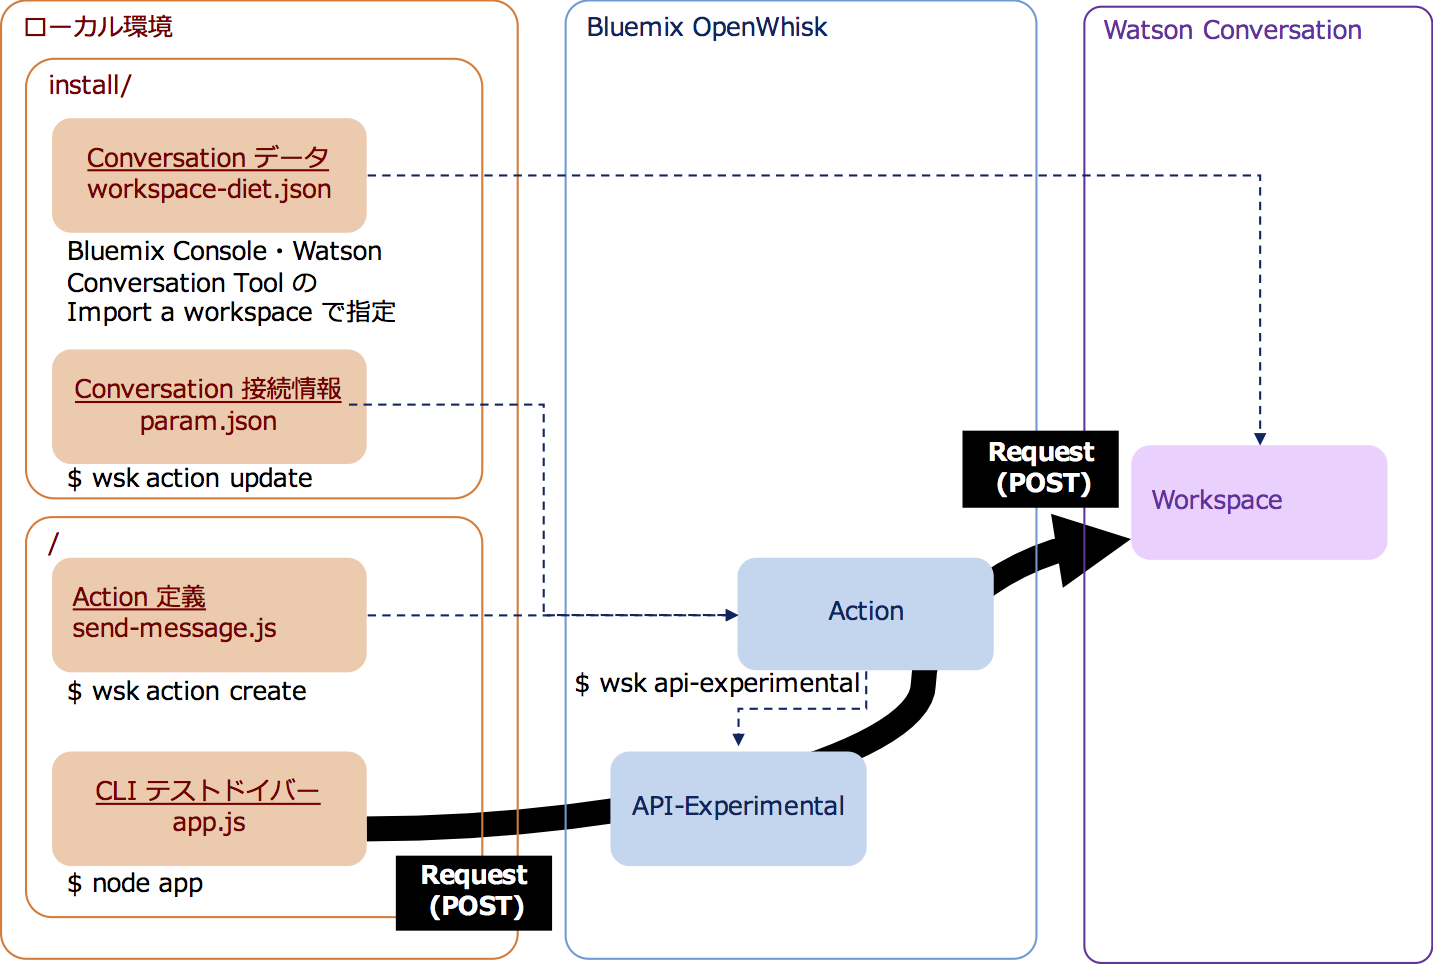
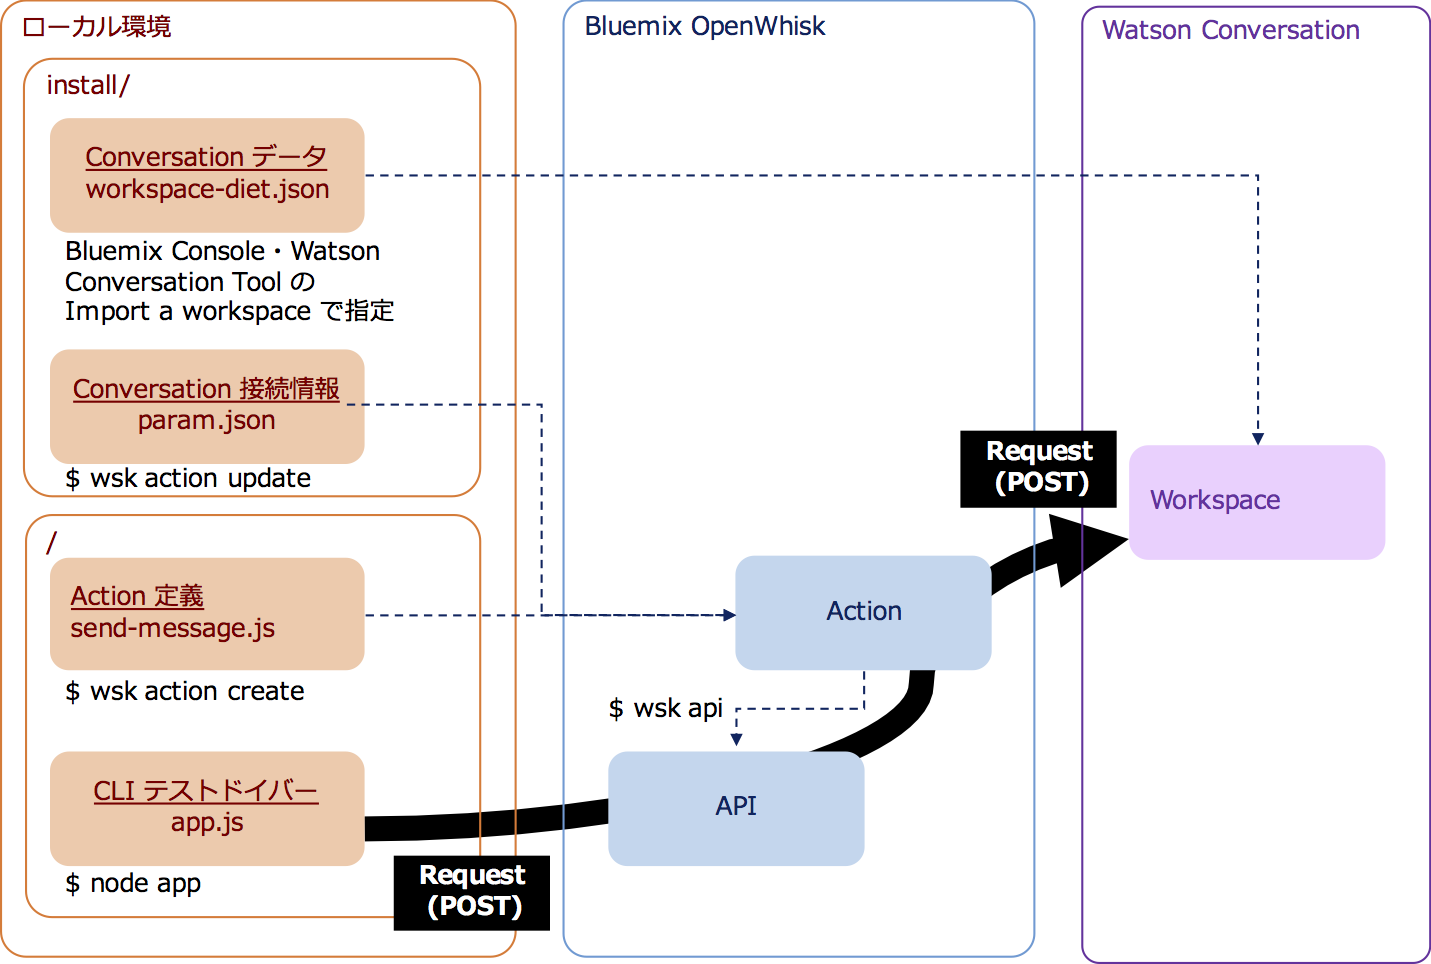
wsk api コマンドのリリースに伴い、api-experimental から api コマンドに変更

diff --git a/README.md b/README.md
@@ -1,12 +1,17 @@
 # Serverless Conversation
 
+## 更新履歴
+### v1.0.1
+* wsk api コマンドのリリースに伴い、api-experimental を api コマンドに変更しました。
+* Conversation 接続情報の version を最新化しました。 (2017-02-17 → 2017-04-21)
+
 ## はじめに
 最近はサーバーレスアーキテクチャーが注目されているようです。どんなものか興味が湧きましたので、IBM Bluemix OpenWhisk を用いて、Watson Conversation を呼び出すサーバーレスアプリを作成してみました。
 
 ## アプリの構成
 * Watson Conversation の特定ワークスペースに Send Massage する Action を作成します。
 * ワークスペースには「さわってみようWatson on Bluemix」(IBM) の Natural Language Classifier と Dialog による ダイエットトレーナーの会話の仕組みを Conversation に移植したものを使用します。[^1](#footnote) <a name="link1">
-* Action は APIs (experimental) で外部公開します。
+* Action は APIs で外部公開します。
 * クライアントは Node.js で CLI テストドライバーを作成します。今後 React Native などへの差し換えを検討します。
 
 ### コンポーネント関連図
@@ -84,7 +89,7 @@
     ```
     $ wsk action list
     actions
-    /jiec_gitou_dev/B20-O970605-Conversation/send-message    private nodejs:6
+    /jiec_rd_dev/B20-O970605-Conversation/send-message    private nodejs:6
     ....(省略)....
     ```
 
@@ -113,16 +118,27 @@
     $ wsk action invoke B20-O970605-Conversation/send-message --blocking --result
     ```
 
-1. 外部公開のため API [^2](#footnote) <a name="link2"> を作成します。ここでは次の条件でコマンドを実行します。
-    - API 名: Diet Conversation (-n オプションで指定)
-    - BASE_PATH: /api
-    - API_PATH: /chat
+1. 外部公開のため API を作成します。
+    1. アクションの Web Action 設定を有効にします。 (api-experimental では必要ありませんでした。)
+        ```
+        wsk action update B20-O970605-Conversation/send-message --web true
+        ```
     
-    > 同じ Region、Organization、Space を他の方とシェアしている場合は、BASE_PATH と API_PATH が同じだと上書きされます。適宜変更してください。 (サブスクリプション契約など) 
+    1. ログインします。 (api-experimental では必要ありませんでした。)
+        ```
+        wsk bluemix login --user ippei0605@gmail.com --password ******** --namespace jiec_rd_dev
+        ```
+
+    1. API を作成します。ここでは次の条件でコマンドを実行します。
+        - API 名: Diet Conversation (-n オプションで指定)
+        - BASE_PATH: /api
+        - API_PATH: /chat
+        
+        > 同じ Region、Organization、Space を他の方とシェアしている場合は、BASE_PATH と API_PATH が同じだと上書きされます。適宜変更してください。 (サブスクリプション契約など) 
     
-     ```
-     $ wsk api-experimental create -n "Diet Conversation" /api /chat post B20-O970605-Conversation/send-message
-     ```
+         ```
+         $ wsk api create -n "Diet Conversation" /api /chat post B20-O970605-Conversation/send-message
+         ```
     
 ## ローカル環境
 以下はローカル環境のターミナルソフトでの作業になります。
@@ -164,16 +180,18 @@
 ![実行結果](docs/figure4.png)
 
 ## まとめ
-* 当初は CLI ではなく Web アプリでテストドライバーを作成しようとしましたが、CORS の設定ができず、jquery、fetch ともアクセスエラーとなるため断念しました。experimental がとれるのを待とうと思ってます。
-* Node.js の request からは API アクセスできました。
+* wsk api コマンドで設定した API はデフォルトで CORS が有効になっており、ローカルやクロスサイトの HTML から公開した API にアクセスすることができます。api-experimental 時はアクセスエラーとなりました。この名残でテストドライバーは CLI のままにしています。
 * 今後は React Native でクライアントを作り、Serverless との連携を検証しようと思います。
 * Bluemix OpenWhisk Package Catalog には Watson STT、TTS、Translator などのアクションが整備されていますので、今回作成した Conversation も近い内にリリースされるかもしれません。
 * 処理結果を同期して返す場合は、処理時間が長くなり想定以上にコストがかかるかもしれません。今回は Conversation Send Message の結果を同期して返値しています。(同期しない場合は {} が返ります。) 複数の処理をアクションに記述する場合や、アクションをシーケンスで繋げる場合など、パフォーマンス、エラーハンドリング、コスト最適化などの留意が必要と感じました。
-* 後で気がついたのですが、OpenWhisk Node.js のランタイム環境では watson-developer-cloud モジュールが使用可能でした。詳細は [こちら](https://console.ng.bluemix.net/docs/openwhisk/openwhisk_reference.html#openwhisk_ref_javascript) の JavaScript runtime environments に記載されています。
 
 ## 脚注 <a name="footnote">
 1. [^](#link1) 過去に関連した音声認識付き Chatbot アプリ Watson Diet Trainer を作成しています。リポジトリは [こちら](https://github.com/ippei0605/watson-diet-trainer) です。
-1. [^](#link2) API Experimental は実験的との意味でしょうが、今回の方法なら動作します。現時点ではBluemix コンソール Open Whisk の APIs は参照できますが不安定、wsk api は COMING SOON となっています。
 
 ## 参考資料  
-* [Plan Bのおすすめ: OpenWhiskにAPI管理の機能されたので試す](https://www.niandc.co.jp/sol/tech/date20161216_568.php)
+* Plan Bのおすすめ: OpenWhiskにAPI管理の機能されたので試す
+  - https://www.niandc.co.jp/sol/tech/date20161216_568.php
+* OpenWhisk Node.js のランタイム環境 (JavaScript runtime environments)
+  - https://console.ng.bluemix.net/docs/openwhisk/openwhisk_reference.html#openwhisk_ref_javascript
+* OpenWhisk API Gateway
+  -https://console.ng.bluemix.net/docs/openwhisk/openwhisk_apigateway.html#openwhisk_apigateway
